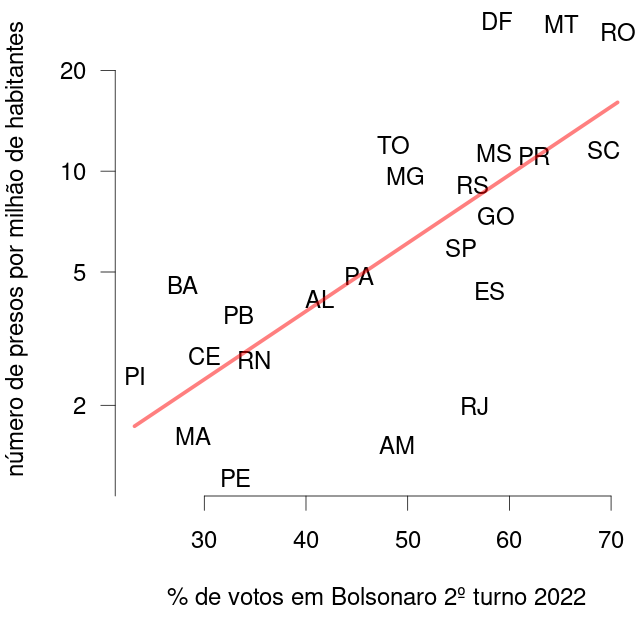
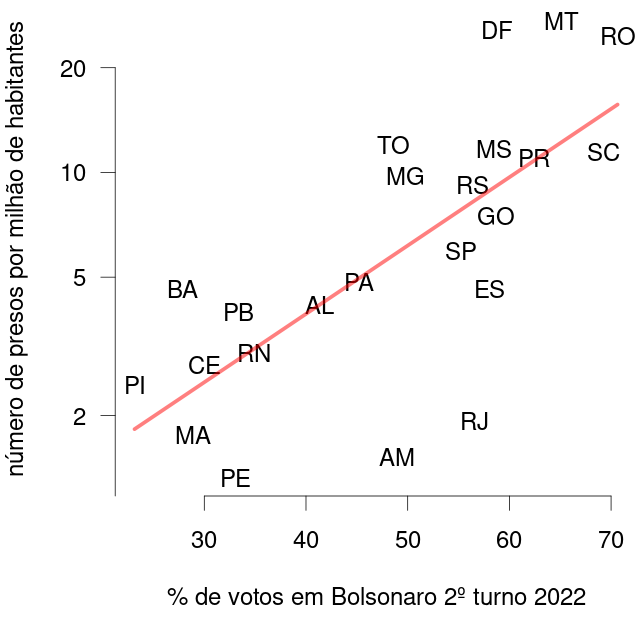
Update data and results for new listing from SEAPE-DF

diff --git a/parse-pdf.py b/parse-pdf.py
@@ -23,12 +23,6 @@ def main():
     for line in proc.stdout:
         line_utf8 = line.decode("utf-8")
 
-        m = re.match(r"^LUIZ FERNANDO DE SOUZA ALVES$", line_utf8)
-        if m:
-            continue
-        m = re.match(r"^12.06.1976$", line_utf8)
-        if m:
-            continue
         m = re.match(r"\x0c?([A-ZÇÃÔÉÚÕÂÁÍÊ]+ [A-ZÇÃÔÉÚÕÂÁÍÊ ]+)$", line_utf8)
         if m:
             names.append(m.group(1))

diff --git a/README.md b/README.md
@@ -14,7 +14,7 @@ na [ṕagina da SEAPE-DF](https://seape.df.gov.br/prisoes-dos-atentados-bsb/), c
 
 ### Gênero
 
-A [lista atual](presos.csv), contém 1429 nomes. Esta lista não corresponde à ultima listagem disponibilizada pela SEAPE, que contém 1388 nomes, na listagem publicada em 22 de janeiro de 2023. Todos os nomes que figuravam nas listas previamente publicadas foram mantidos. Destas 1429 pessoas, 494 são mulheres e 935 são homens.
+A [lista atual](presos.csv), contém 1429 nomes. Esta lista não corresponde à ultima listagem disponibilizada pela SEAPE, que contém 1387 nomes, na listagem publicada em 25 de janeiro de 2023. Todos os nomes que figuravam nas listas previamente publicadas foram mantidos. Destas 1429 pessoas, 494 são mulheres e 935 são homens.
 
 
 ### Idades
@@ -36,27 +36,27 @@ O número de pessoas por estado está indicado na tabela abaixo (a informação 
 
 |estado|número de pessoas presas|porcentagem do total|presos/população|
 |-|-|-|-|
-|SP|271|19.6%|5.91|
-|MG|201|14.5%|9.65|
-|PR|131|9.5%|11.15|
-|MT|104|7.5%|27.22|
-|RS|101|7.3%|9.29|
-|SC|90|6.5%|11.34|
-|DF|82|5.9%|28.05|
-|BA|67|4.8%|4.71|
-|GO|51|3.7%|7.05|
-|RO|42|3.0%|25.37|
-|PA|41|3.0%|4.74|
-|RJ|33|2.4%|1.99|
-|MS|32|2.3%|11.29|
+|SP|273|19.7%|5.93|
+|MG|203|14.6%|9.79|
+|PR|130|9.4%|10.98|
+|MT|103|7.4%|27.22|
+|RS|102|7.4%|9.20|
+|SC|89|6.4%|11.47|
+|DF|75|5.4%|25.66|
+|BA|68|4.9%|4.64|
+|GO|52|3.8%|7.48|
+|PA|41|3.0%|4.86|
+|RO|40|2.9%|24.75|
+|MS|33|2.4%|11.65|
+|RJ|32|2.3%|1.93|
 |CE|25|1.8%|2.80|
-|TO|19|1.4%|12.62|
-|ES|18|1.3%|4.38|
-|PB|15|1.1%|3.72|
+|ES|19|1.4%|4.62|
+|TO|19|1.4%|11.99|
+|PB|16|1.2%|3.97|
 |AL|13|0.9%|4.16|
-|MA|11|0.8%|1.62|
-|PE|11|0.8%|1.22|
-|RN|9|0.6%|2.72|
+|MA|12|0.9%|1.76|
+|PE|12|0.9%|1.33|
+|RN|10|0.7%|3.03|
 |PI|8|0.6%|2.45|
 |AM|6|0.4%|1.52|
 |AC|3|0.2%|3.62|
@@ -71,7 +71,7 @@ Jair Bolsonaro no segundo turno da eleição presidencial de
 ![figure](votos-bolsonaro-numero-presos.png)
 
 Neste gráfico, cada estado está representado pela sua sigla.
-Foram incluídos na análise os estados que apresentam número de presos maior do que 3, para efeitos de confiabilidade da análise. A população de cada estado corresponde àquela publicada pelo IBGS na [prévia do censo de 2022](https://ftp.ibge.gov.br/Censos/Censo_Demografico_2022/Previa_da_Populacao/POP2022_Municipios.pdf). Note que o eixo vertical do gráfico (número de presos) está em escala logarítmica, o que é adequado para variáveis de contagem. A correlação entre as duas variáveis é significativamente diferente de zero (_r_ = 0.72, _t_[21] = 4.77, _p_ < 0.001). A linha de regressão entre as duas variáveis está indicada em vermelho no gráfico.
+Foram incluídos na análise os estados que apresentam número de presos maior do que 3, para efeitos de confiabilidade da análise. A população de cada estado corresponde àquela publicada pelo IBGS na [prévia do censo de 2022](https://ftp.ibge.gov.br/Censos/Censo_Demografico_2022/Previa_da_Populacao/POP2022_Municipios.pdf). Note que o eixo vertical do gráfico (número de presos) está em escala logarítmica, o que é adequado para variáveis de contagem. A correlação entre as duas variáveis é significativamente diferente de zero (_r_ = 0.72, _t_[21] = 4.70, _p_ < 0.001). A linha de regressão entre as duas variáveis está indicada em vermelho no gráfico.
 
 ## Author
 
